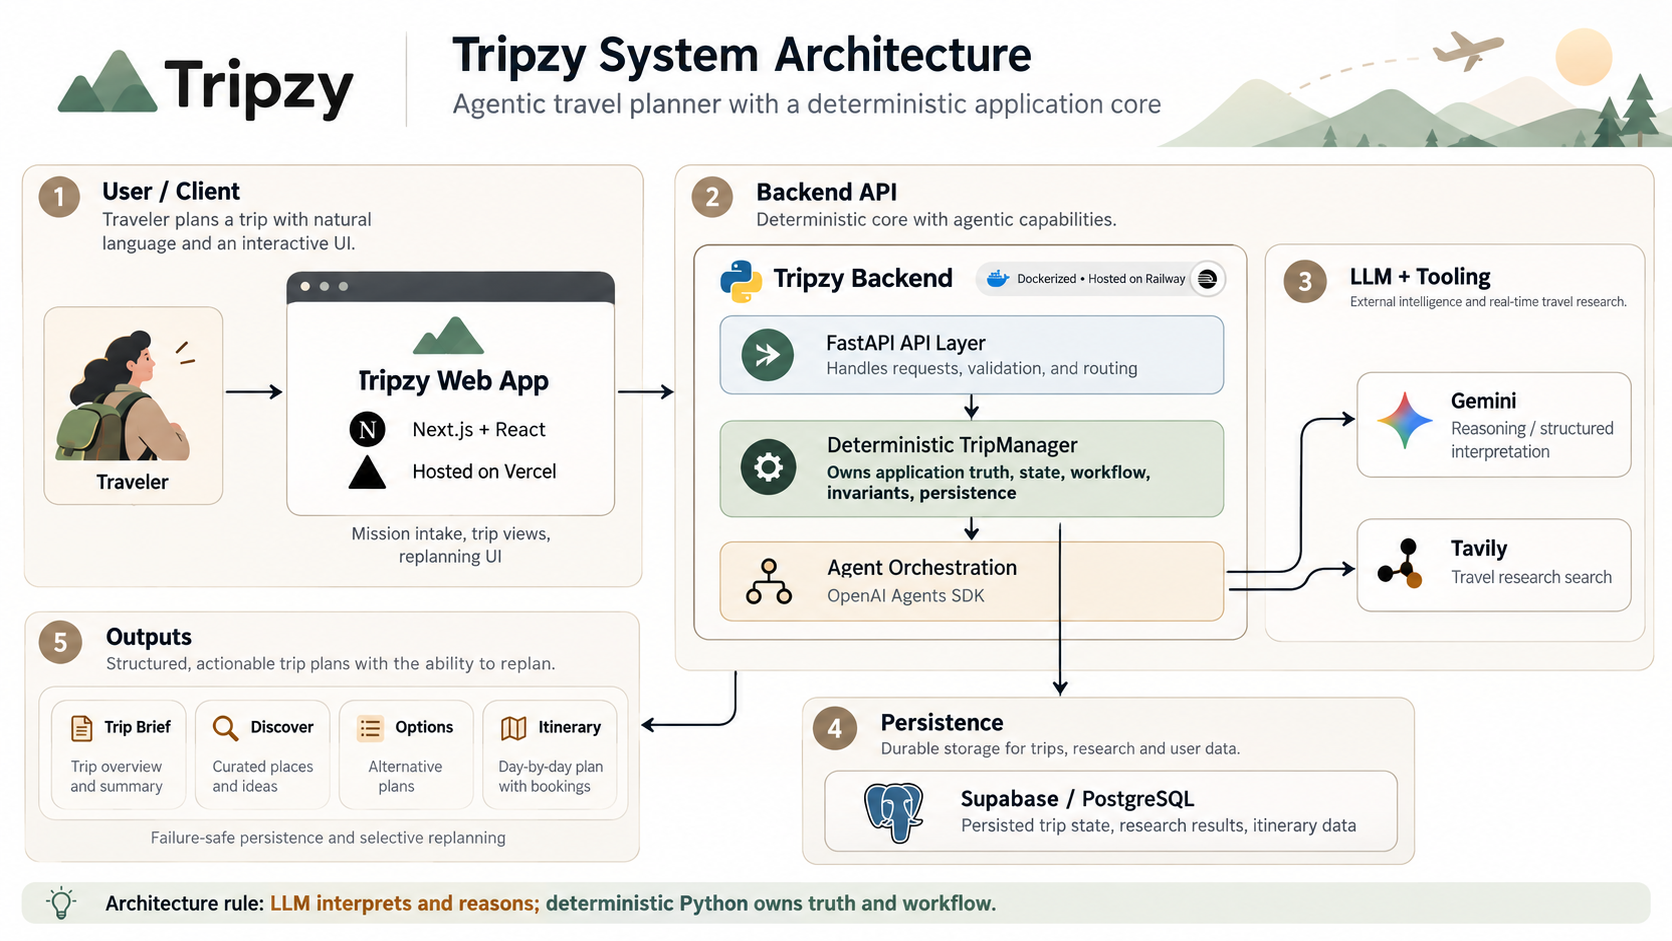
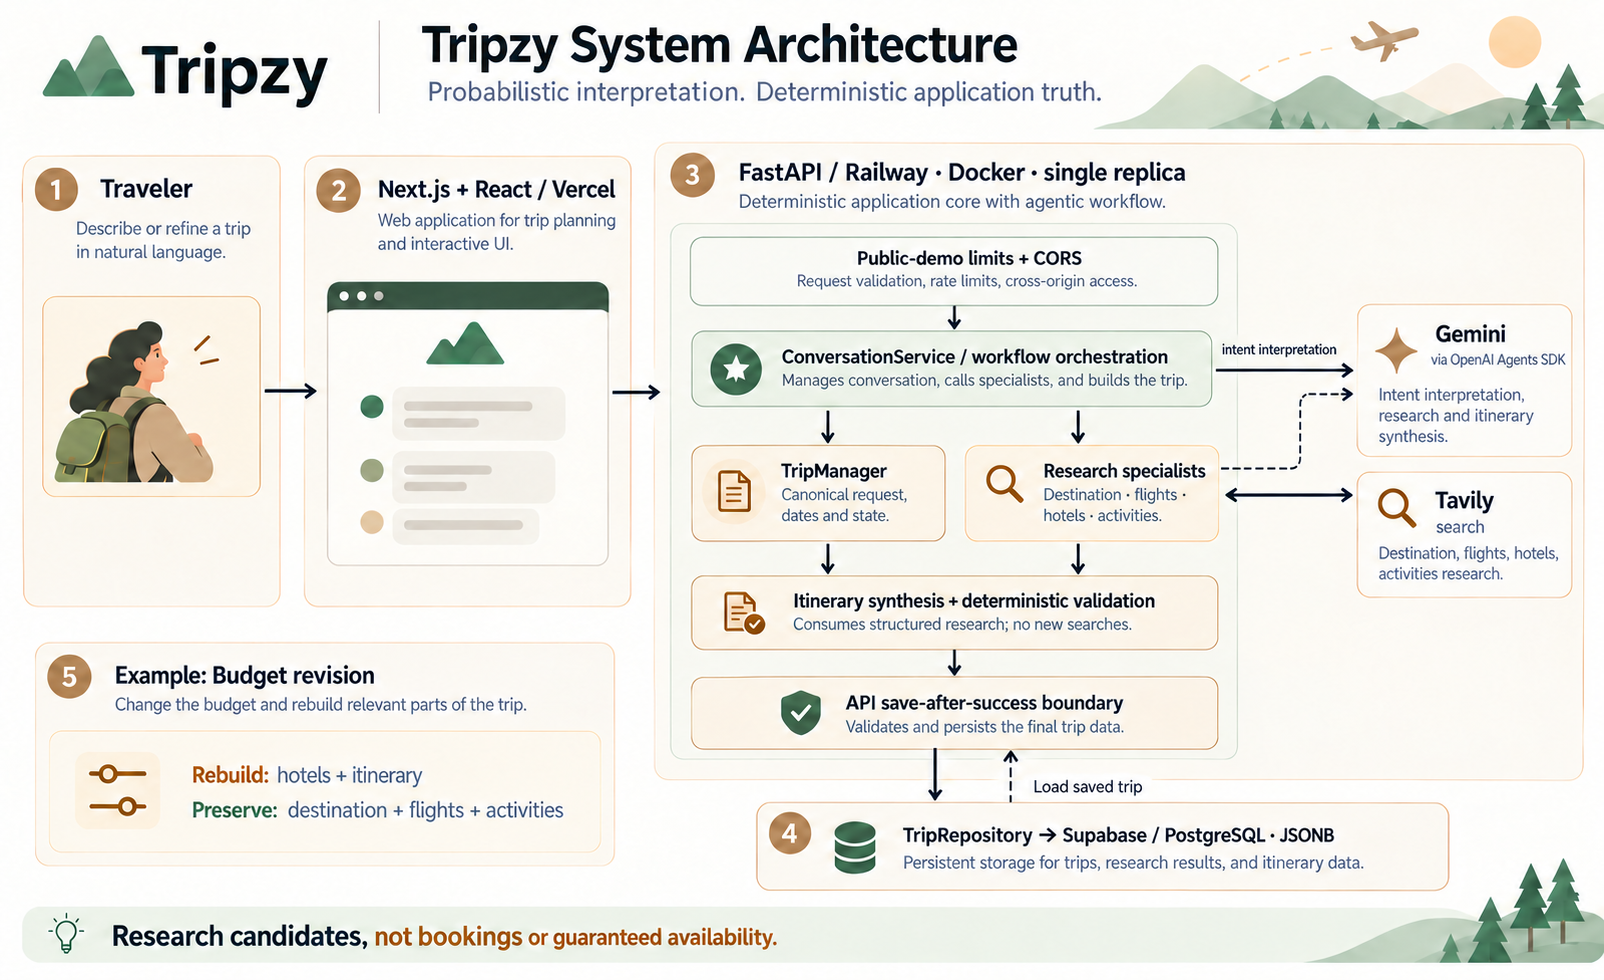
docs: refresh portfolio README and correct system architecture

diff --git a/README.md b/README.md
@@ -4,9 +4,9 @@
 
 **Give me the trip. I’ll take it from here.**
 
-Tripzy is a shipped portfolio project by Hifza: a full-stack agentic travel planner that turns a natural-language mission into a durable trip workspace, researched candidates, and a structured day-by-day itinerary.
+Tripzy is a completed portfolio project by Hifza, built with AI-assisted development. It turns a natural-language travel mission into a durable trip workspace, research candidates and a structured day-by-day itinerary. The engineering focus is keeping saved state coherent when a traveler revises a plan or a provider fails.
 
-**[Try the demo](https://tripzy-liard.vercel.app)** · [Watch the 89-second demo](https://github.com/user-attachments/assets/badc1551-7f3c-4a09-825c-d4b3ef807f50) · [Engineering case study](docs/portfolio-story.md) · [Verified demo acceptance](docs/p2-demo-acceptance.md) · [Model evaluation evidence](docs/evals.md)
+**[Try the demo](https://tripzy-liard.vercel.app)** · [Watch the 89-second demo](https://github.com/user-attachments/assets/badc1551-7f3c-4a09-825c-d4b3ef807f50) · [Engineering case study](docs/portfolio-story.md) · [Verified demo acceptance](docs/p2-demo-acceptance.md) · [Model evaluation evidence](docs/evals.md) · [Résumé bullets](docs/resume.md) · [Interview walkthrough](docs/interview.md)
 
 > **Engineering thesis:** LLMs interpret intent and perform bounded reasoning. Deterministic Python owns application truth: state, workflow, validation, selective invalidation, persistence, and retry semantics.
 
@@ -39,6 +39,7 @@ Tripzy is a shipped portfolio project by Hifza: a full-stack agentic travel plan
 </details>
 
 Production captures from October 8, 2026, using the synthetic QA trip. These show researched planning output, not confirmed bookings. [Capture notes](docs/images/README.md).
+
 ## Why this project matters
 
 The engineering challenge is keeping a persistent plan coherent when interpretation, external search, or a revision fails. Tripzy separates model decisions from application state, then validates and saves the result at explicit boundaries.
@@ -96,38 +97,35 @@ Destination, flight, hotel, and activity research produce structured candidates.
 
 ## Architecture
 
-![Tripzy System Architecture](docs/images/tripzy-system-architecture.png)
+![Tripzy system architecture: Vercel frontend, Railway FastAPI workflow, Gemini/Tavily research, deterministic state and validation, and save-after-success Supabase persistence](docs/images/tripzy-system-architecture.png)
 
+The diagram shows logical responsibilities, not parallel execution. **ConversationService** coordinates interpretation and specialist workflows. **TripManager** owns canonical request/state and date semantics; Python's dependency graph determines which artifacts to rebuild. Gemini supports interpretation, research and itinerary synthesis through the OpenAI Agents SDK. Tavily supplies search to research specialists; itinerary synthesis consumes structured research and performs no new searches.
 
-```text
-Browser / Next.js
-       |
-       v
-FastAPI  ---- public-demo limits / CORS / security boundary
-       |
-       v
-ConversationService
-       |
-       +--> TripManager ---------------------------+
-       |       deterministic state + invariants   |
-       |                                           |
-       +--> specialist research workflows          |
-       |       Gemini + OpenAI Agents SDK           |
-       |       Tavily search                        |
-       |                                           |
-       +--> Itinerary Planner <--- structured data  |
-       |                                           |
-       v                                           |
-TripRepository abstraction                         |
-       |                                           |
-       +--> InMemoryTripRepository (tests)          |
-       +--> SupabaseTripRepository -----------------+
-                    |
-                    v
-             PostgreSQL / JSONB
+The **API save-after-success boundary** is distinct from state management. A planning request loads a saved baseline, processes changes in isolated working state, and persists the result through `TripRepository` only after successful processing. A failure leaves the previous saved state available. Missing requirements may return a clarification before research or itinerary synthesis; these branches are omitted from the overview image.
+
+Production runs on **Vercel** (Next.js), **Railway** (one Dockerized FastAPI replica) and **Supabase** (PostgreSQL/JSONB). Provider credentials stay backend-only. `InMemoryTripRepository` is used by tests; production uses `SupabaseTripRepository`. The image's budget example assumes the interpreted correction changes only budget; unintended extracted edits remain a measured limitation.
+
+<details>
+<summary>Accessible architecture flow</summary>
+
+```mermaid
+flowchart TD
+    UI[Traveler / Next.js on Vercel] --> API[FastAPI on Railway / request and capacity limits]
+    API --> C[ConversationService]
+    C --> T[TripManager / canonical request and state]
+    C --> R[Research specialists / structured candidates]
+    C -. Intent interpretation .-> G[Gemini via OpenAI Agents SDK]
+    R -. Model reasoning .-> G
+    R <--> S[Tavily search]
+    T --> I[Itinerary synthesis and deterministic validation]
+    R --> I
+    I -. Synthesis .-> G
+    I --> SAVE[API / save only after success]
+    SAVE --> REPO[TripRepository / Supabase PostgreSQL JSONB]
+    REPO -. Load saved trip .-> API
 ```
 
-Production is split across **Vercel** (Next.js), **Railway** (Dockerized FastAPI), and **Supabase** (PostgreSQL). Gemini and Tavily are backend-only.
+</details>
 
 ## Stack
 
@@ -250,9 +248,13 @@ frontend/
 supabase/
   migrations/   production-matching database source of truth
 tests/          backend workflow/API regression coverage
+evals/          fixed datasets, runner and repeated baseline
 docs/
   database.md   bootstrap + RLS verification
   deployment.md production environment + deployment contract
+  portfolio-story.md architecture decisions + evidence + limitations
+  resume.md     copy-ready project wording
+  interview.md  introduction, walkthrough and technical Q&A
 ```
 
 ## Deployment and security
@@ -271,8 +273,18 @@ The browser receives only the public backend URL. Gemini, Tavily, and the privil
 
 Voice, a live timeline, MCP, bookings and expanded multilingual features are deferred. The portfolio scope is the shipped planning flow plus verifiable engineering evidence. [Case study and tradeoffs](docs/portfolio-story.md).
 
-## Current release status
+## Portfolio status
 
-M18.3 Final Production QA identified and fixed one selective-replanning regression: an AI-produced empty `interests_replace: []` can no longer erase unrelated existing interests during a budget-only correction.
+**P1–P5 are complete and merged.** The package includes:
 
-The accepted portfolio checkpoint is [v1.0.1](https://github.com/hifzabuildsai/Tripzy/releases/tag/v1.0.1), preserving the original v1.0.0 tag. P1–P4 provide the repeated baseline, live acceptance, case study/screenshots and recorded demo. P5 packages the [release evidence](docs/portfolio-release.md), [resume bullets](docs/resume.md) and [interview walkthrough](docs/interview.md). The tag identifies an accepted repository commit; deployment parity is not asserted. No v1.1 feature expansion is required for this portfolio finish.
+| Milestone | Shipped evidence |
+| --- | --- |
+| P1 · Evaluations | [60 fixed cases × three repeats](docs/evals.md) |
+| P2 · Live acceptance | [Planning, clarification, persistence and revision checks](docs/p2-demo-acceptance.md) |
+| P3 · Portfolio story | [Architecture, screenshots and honest limitations](docs/portfolio-story.md) |
+| P4 · Recorded demo | [89-second walkthrough and verification](docs/p4-demo.md) |
+| P5 · Presentation package | [Release record](docs/portfolio-release.md), [résumé wording](docs/resume.md), [interview walkthrough](docs/interview.md) |
+
+The accepted repository checkpoint [v1.0.1](https://github.com/hifzabuildsai/Tripzy/releases/tag/v1.0.1) tags the P4 merge and preserves the original v1.0.0 tag. P5's presentation documents were merged afterward in [PR #16](https://github.com/hifzabuildsai/Tripzy/pull/16); they are available on main, not inside that tag. The eval baseline retains its original filename and measurement provenance. Deployment parity with the tag is not asserted.
+
+The earlier empty `interests_replace: []` regression is fixed and covered by tests. The remaining extraction weaknesses and travel-feasibility gaps are documented above. This is the portfolio stopping point; the deferred v1.1 roadmap does not resume automatically.

diff --git a/docs/images/tripzy-system-architecture.prompt.md b/docs/images/tripzy-system-architecture.prompt.md
@@ -1,0 +1,17 @@
+# Architecture image generation record
+
+Tool: built-in image generation/editing. Edit target: `tripzy-system-architecture.png`. Reviewed against accepted main `cece9b10a2db82d471f4c055ddbb883482a44d31` on October 9, 2026.
+
+## Design specification
+
+Landscape engineering infographic for a GitHub README; preserve the existing cream, forest-green and warm-tan palette, rounded cards and restrained travel accents. Show the Vercel frontend, FastAPI on a single Railway Docker replica, public-demo limits, ConversationService, TripManager, research specialists, Gemini via OpenAI Agents SDK, Tavily, itinerary synthesis with deterministic validation, the API save-after-success boundary and TripRepository/Supabase PostgreSQL JSONB. Include saved-trip restoration and the budget-only revision example: rebuild hotels/itinerary, preserve destination/flights/activities. Footer: research candidates, not bookings or guaranteed availability. Logical responsibilities do not imply parallel execution.
+
+## Provider refinement prompt
+
+Make two precise accuracy corrections to this architecture diagram, preserve every other layout and text element. In Gemini provider card change subtitle 'OpenAI Agents SDK' to 'via OpenAI Agents SDK' and replace body with 'Intent interpretation, research and itinerary synthesis.' Add clean thin dashed dependency connections from the Research specialists card and from the Itinerary synthesis card to the Gemini card, routed through the open white gutter on the right of the central backend workflow without crossing text. These are LLM dependencies, not an execution order. Keep the existing solid intent interpretation arrow and the Tavily search arrow. Provider cards represent external services. Ensure all card text stays readable, correct and unclipped. Do not introduce bookings or any new functionality.
+
+Review caught an incorrect itinerary-to-Tavily arrow in the refinement output. That variant was rejected; the following final correction removed it. Gemini's synthesis responsibility remains stated in its card and in the accessible Mermaid/text version.
+
+## Final edit prompt (verbatim)
+
+Exactly one change: REMOVE the bottom dashed arrow that leaves the right edge of 'Itinerary synthesis + deterministic validation', travels right then upwards, and enters the Tavily card. Delete that entire dashed arrow. Do NOT add or reroute any replacement arrow. Leave the dashed arrow from Research specialists to Gemini and the solid double-ended Research specialists↔Tavily arrow unchanged. The itinerary card must have NO connection to Tavily. Keep absolutely all text, colors, cards, geometry and every other connection unchanged.

diff --git a/docs/images/README.md b/docs/images/README.md
@@ -31,3 +31,7 @@ Earlier release captures (`tripzy-landing.png`, `tripzy-landing.webp`,
 longer the root README previews. Their precise capture timestamps were not
 recorded here. `tripzy-system-architecture.png` is a diagram, not a production
 screenshot.
+
+## System architecture diagram
+
+Updated October 9, 2026, against merged main at cece9b10a2db82d471f4c055ddbb883482a44d31. The built-in image generator edited the existing diagram; its text and provider connections were reviewed against ConversationService, TripManager, replanning.py and the API save boundary. It removes the former booking claim and shows research candidates, selective budget replanning, deterministic validation and save-after-success persistence. Logical responsibilities are simplified; clarification paths are described in the README, and dashed provider links do not imply parallel execution. [Generation prompts](tripzy-system-architecture.prompt.md).
